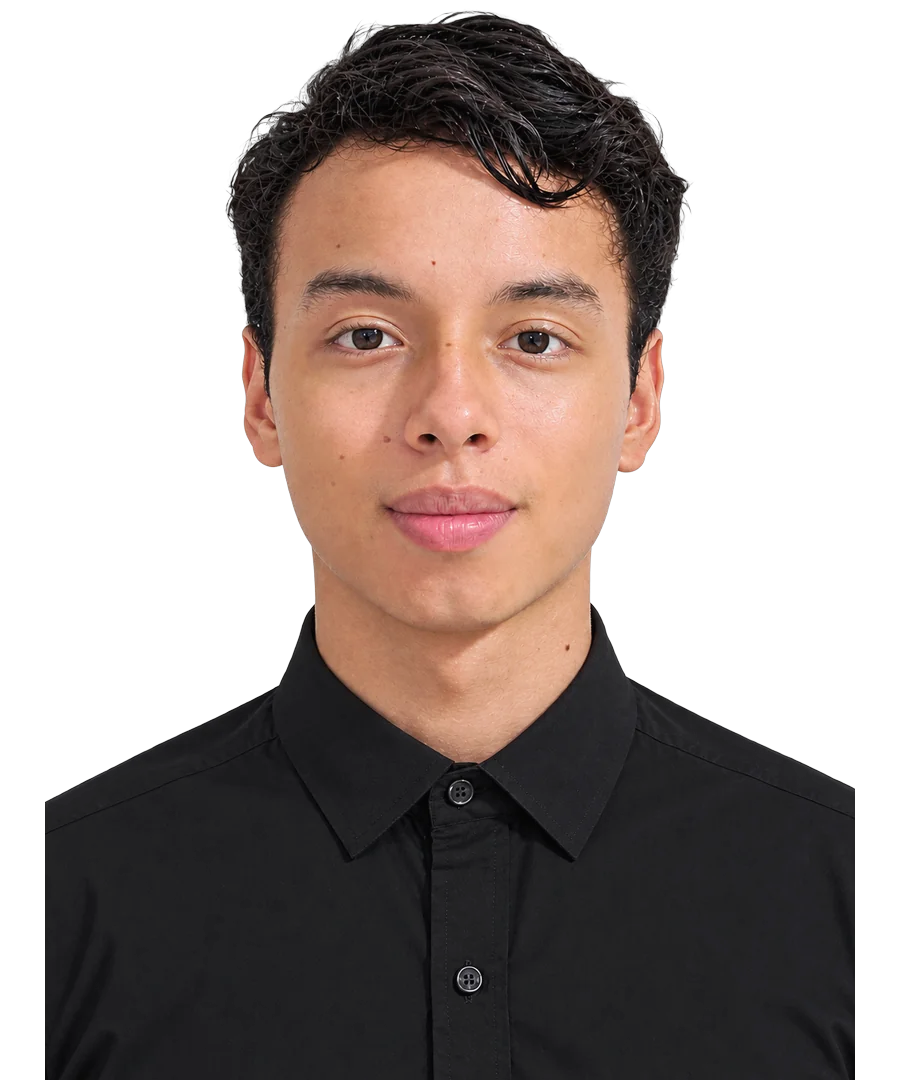
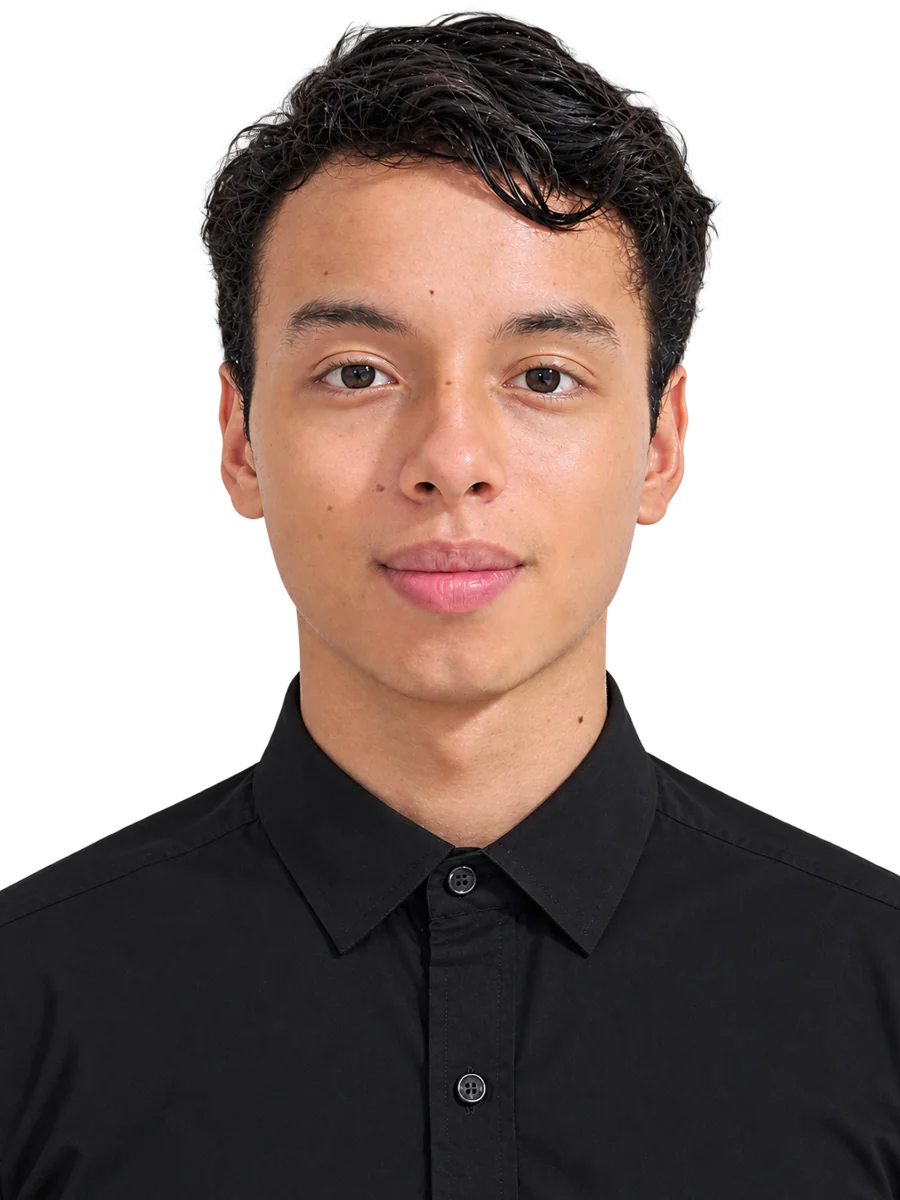
Centrar foto y recuadro de portada

diff --git a/index.html b/index.html
@@ -21,7 +21,7 @@
   <link rel="stylesheet" href="css/marca.css?v=20261112p">
   <link rel="stylesheet" href="seguridad/seguridad.css?v=20261004a">
   <link rel="stylesheet" href="legal/consentimiento.css?v=20261106a">
-  <link rel="stylesheet" href="css/perfil.css">
+  <link rel="stylesheet" href="css/perfil.css?v=2">
 </head>
 
 <body>
@@ -92,7 +92,7 @@
     <div class="portada-visual" aria-hidden="true">
       <span class="portada-bloque"></span>
       <svg class="portada-cortes" viewBox="0 0 100 100" focusable="false"><path d="M48 -14 L48 0 A36 36 0 0 0 30 67.18"/><path d="M43.49 -13.25 L86.51 113.25"/><path d="M68.4 60 L40 60"/></svg>
-      <img class="portada-cara" src="img/marca/andres_rostro.webp" alt="" width="900" height="1080" fetchpriority="high">
+      <img class="portada-cara" src="img/marca/andres_rostro.webp?v=2" alt="" width="900" height="1080" fetchpriority="high">
     </div>
     <a href="#historia" class="portada-bajar"><span>Desliza</span><i aria-hidden="true"></i></a>
   </section>

diff --git a/css/perfil.css b/css/perfil.css
@@ -9,3 +9,16 @@
 .hv-hoja{width:100%;max-width:860px;background:#fff;box-shadow:0 10px 40px rgba(0,0,0,.4)}
 .hv-hoja img{display:block;width:100%;height:auto}
 .hv-nota{color:#F4ECDD;font:400 .85rem Inter,sans-serif;margin-top:12px;text-align:center}
+
+/* Portada: foto y recuadro centrados y del mismo ancho */
+.portada-visual { --pw: min(78%, 500px, 56vh); }
+.portada-bloque, .portada-cortes { width: var(--pw); transform: translateX(-50%); }
+.portada-cara {
+  position: absolute; left: 0; right: 0; bottom: 0; margin: 0 auto;
+  width: var(--pw); max-width: none; max-height: none; height: auto; object-fit: contain;
+}
+.anima .portada-cara { translate: none; }
+@media (max-width: 980px) {
+  .portada-visual { --pw: min(70%, 420px); }
+  .portada-cara { height: auto; max-width: none; }
+}
